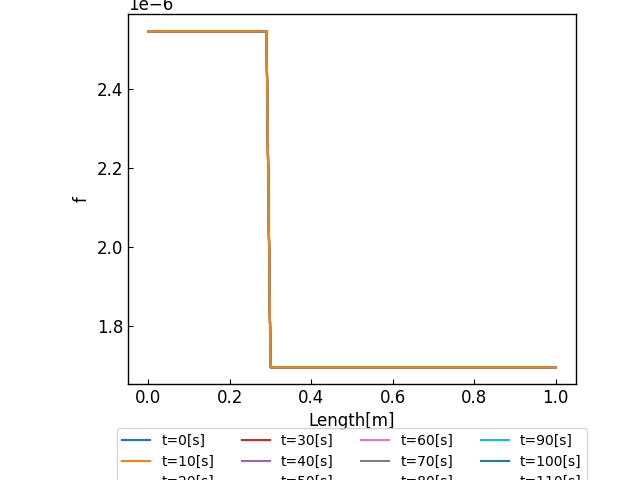
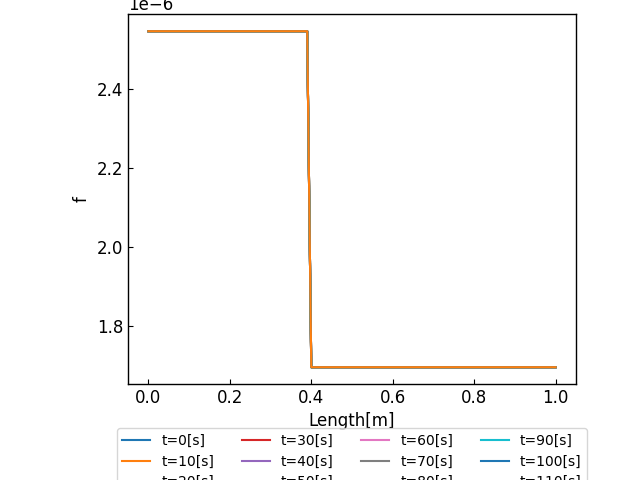
第2項のdebug

Changed region(s): [[0.4062, 0.0625, 0.5, 0.7812]]

diff --git a/main.cpp b/main.cpp
@@ -31,7 +31,7 @@ void initVariables()
   for (int i = 0; i < NODE_NUM; i++)
   {
     // 初期状態のnodeに与える速度はノード点の位置によって変える
-    if (i < 30)
+    if (i < 40)
     {
       area[0][i] = A0;
       velocity[0][i] = v0;
@@ -40,7 +40,7 @@ void initVariables()
     else
     {
       area[0][i] = A0 / 1.5e0;
-      velocity[0][i] = 0;
+      velocity[0][i] = v0 * 1.5e0;
       flowQuantity[0][i] = area[0][i] * velocity[0][i];
     }
   }
@@ -148,6 +148,8 @@ void exec(LeftPartFlag flag)
       {
         for (int k = 0; k < 2; k++)
         {
+          Gauss g(1);
+
           vector<double> N(2, 0e0);
           vector<double> dNdr(2, 0e0);
           vector<double> dNdx(2, 0e0);
@@ -168,6 +170,23 @@ void exec(LeftPartFlag flag)
           b_area(ele1) += dNdx.at(1) * dt * (Q + dt / 2e0 * (-K_R * Q / A)) * g.weight[k] * dxdr;
           b_flowQuantity(ele0) += dNdx.at(0) * dt * (Q * Q / A + betha / 3e0 / rho * pow(A, 1.5e0) + dt * Q / A * (-K_R * Q / A)) * g.weight[k] * dxdr;
           b_flowQuantity(ele1) += dNdx.at(1) * dt * (Q * Q / A + betha / 3e0 / rho * pow(A, 1.5e0) + dt * Q / A * (-K_R * Q / A)) * g.weight[k] * dxdr;
+
+          cout << "j = " << j << endl;
+          cout << "j*(i+1) = " << j * (i + 1) << endl;
+          cout << "Q = " << Q << endl;
+          cout << "A = " << A << endl;
+          cout << "b_area(ele0) = " << b_area(ele0) << endl;
+          cout << "b_area(ele1) = " << b_area(ele1) << endl;
+          cout << "b_flowQuantity(ele0) = " << b_flowQuantity(ele0) << endl;
+          cout << "b_flowQuantity(ele1) = " << b_flowQuantity(ele1) << endl;
+          cout << "(Q + dt / 2e0 * (-K_R * Q / A) = " << Q + dt / 2e0 * (-K_R * Q / A) << endl;
+          cout << "(Q * Q / A + betha / 3e0 / rho * pow(A, 1.5e0) + dt * Q / A * (-K_R * Q / A) = " << Q * Q / A + betha / 3e0 / rho * pow(A, 1.5e0) + dt * Q / A * (-K_R * Q / A) << endl;
+
+          if (isnan(b_area(ele0)) || isnan(b_area(ele1)) || isnan(b_flowQuantity(ele0)) || isnan(b_flowQuantity(ele1)) || Q < 0e0 || A < 0e0)
+          {
+            cout << "second term is nan Exit..." << endl;
+            exit(1);
+          }
         }
       }
 
@@ -175,6 +194,8 @@ void exec(LeftPartFlag flag)
       {
         for (int k = 0; k < 2; k++)
         {
+          Gauss g(1);
+
           vector<double> N(2, 0e0);
           vector<double> dNdr(2, 0e0);
           vector<double> dNdx(2, 0e0);
@@ -211,6 +232,8 @@ void exec(LeftPartFlag flag)
       {
         for (int k = 0; k < 2; k++)
         {
+          Gauss g(1);
+
           vector<double> N(2, 0e0);
           vector<double> dNdr(2, 0e0);
           vector<double> dNdx(2, 0e0);
@@ -248,6 +271,8 @@ void exec(LeftPartFlag flag)
       {
         for (int k = 0; k < 2; k++)
         {
+          Gauss g(1);
+
           vector<double> N(2, 0e0);
           vector<double> dNdr(2, 0e0);
 
